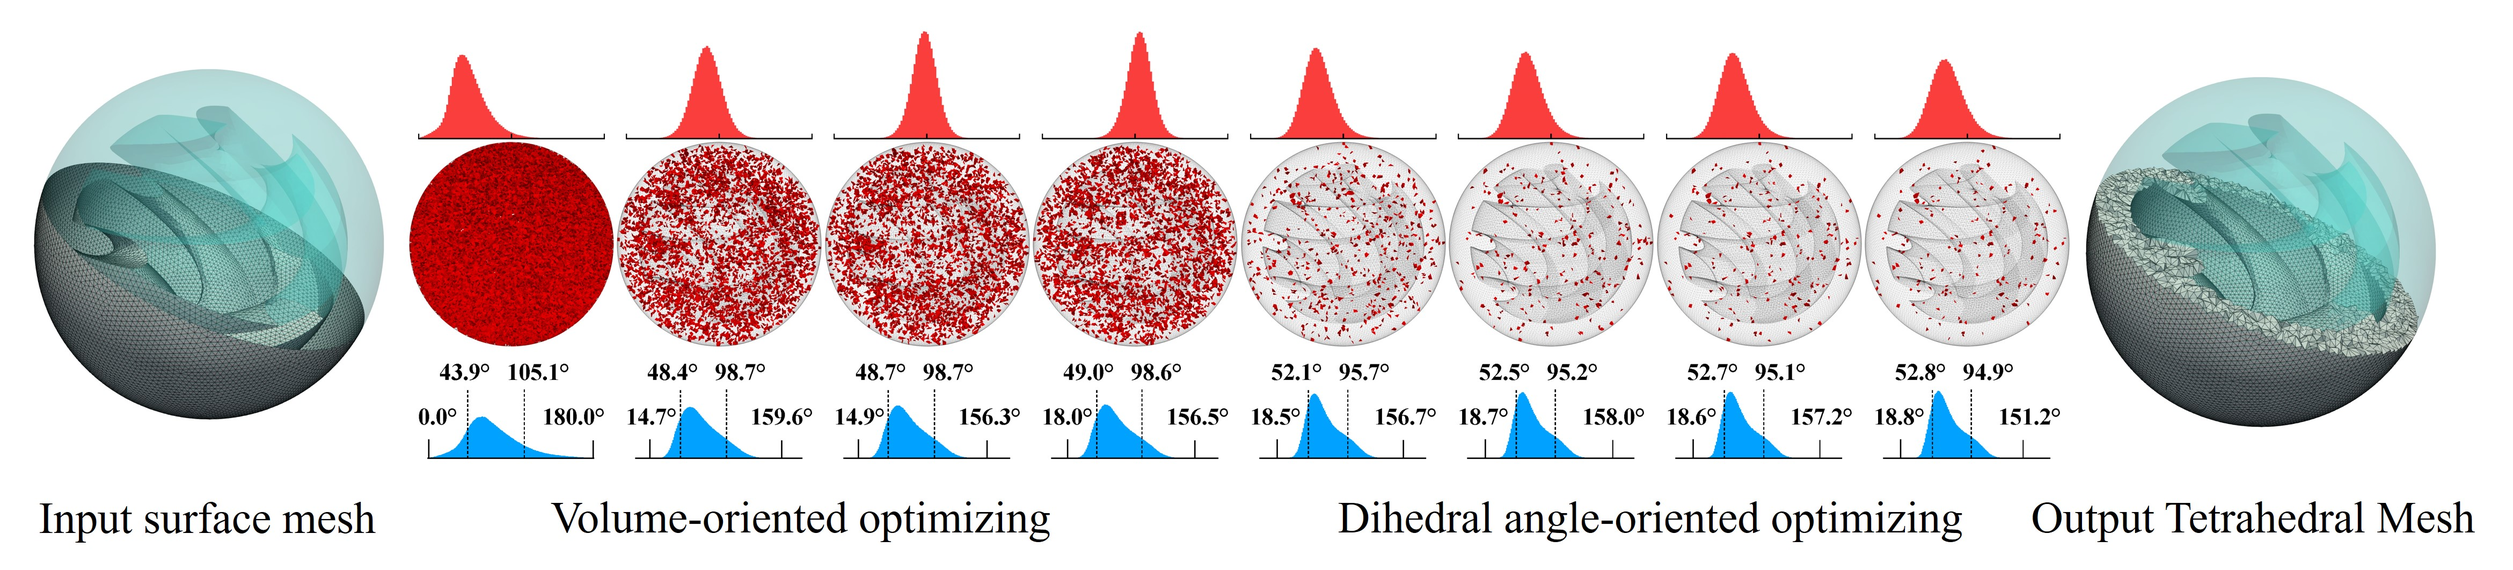
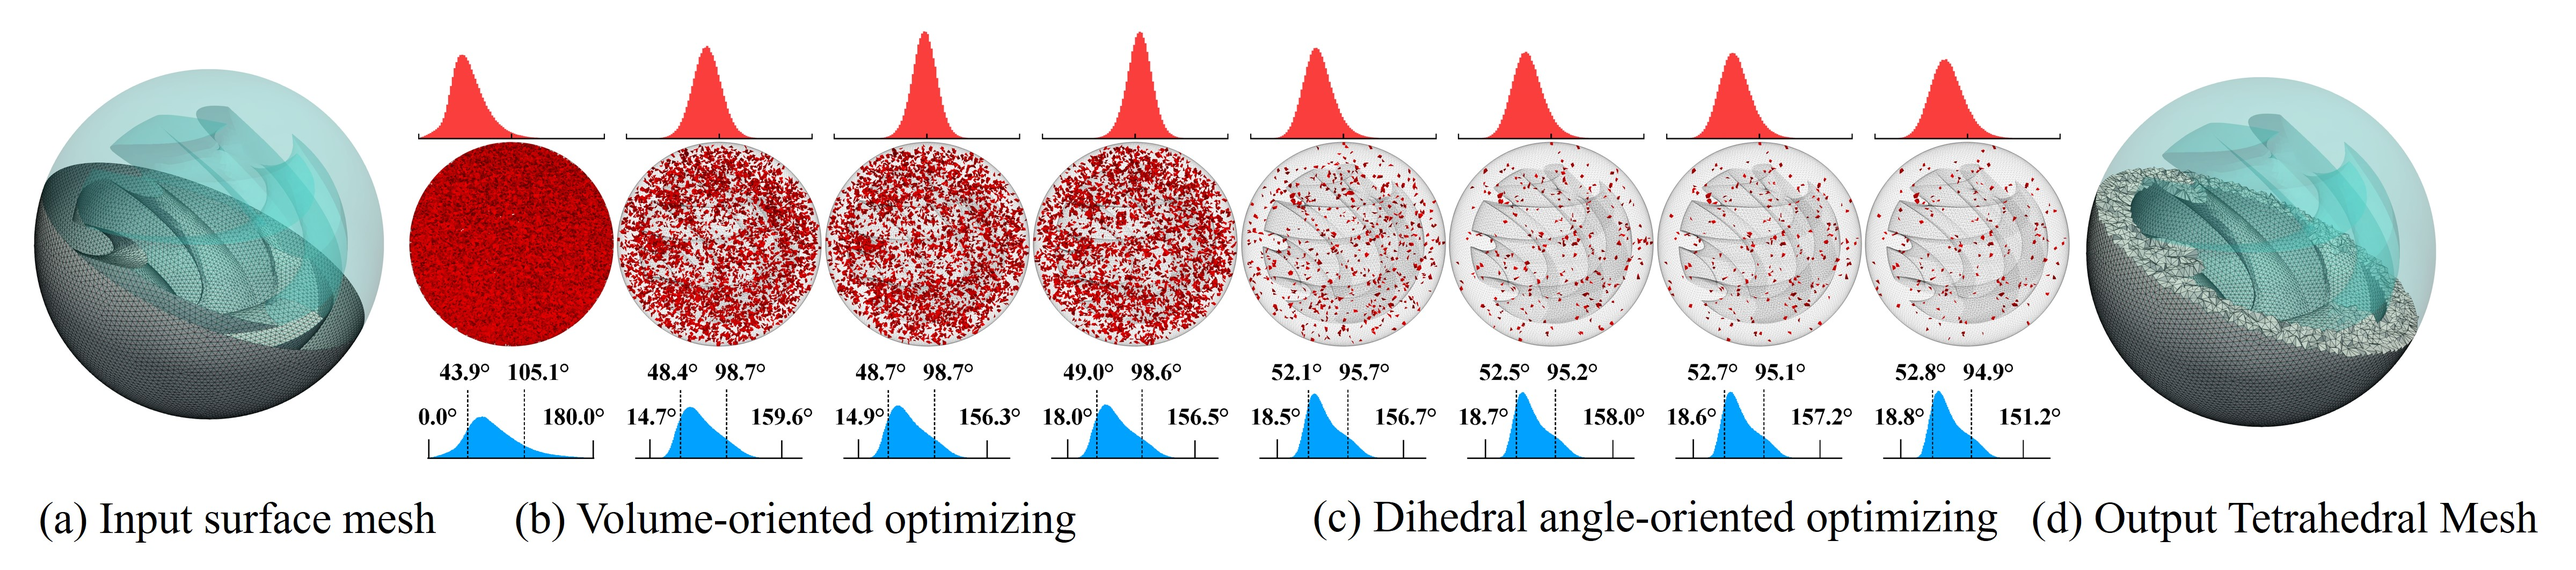
add caption

diff --git a/index.html b/index.html
@@ -3,6 +3,9 @@
 
 <head lang="en">
   <!-- <meta http-equiv="Content-Type" content="text/html; charset=UTF-8"> -->
+  <!-- 加载 MathJax -->
+  <script src="https://cdn.jsdelivr.net/npm/mathjax@3/es5/tex-mml-chtml.js"></script>
+
 
   <!-- <meta http-equiv="x-ua-compatible" content="ie=edge"> -->
   <link rel="stylesheet" href="./definitive-image-comparison-slider-master/src/dics.css">
@@ -125,15 +128,19 @@
           <img src="files/images/pipeline.jpg" />
           <p class="caption">
             Algorithmic pipeline. (a) Our method takes a set of watertight, high-quality manifold triangular meshes as
-            the input boundaries. (b) The initial tetrahedral mesh, constructed via Delaunay tetrahedralization,
-            contains numerous slivers. Slivers with dihedral angles less than $30^\circ$ are rendered in red. Minimizing
+            the input boundaries. (b) The initial tetrahedral mesh, constructed via Delaunay tetrahedralization.
+            Elements with dihedral angles less than \(30^\circ\) are rendered in red.
+            Minimizing
             the volume-oriented energy improves the uniformity of the volume of tetrahedra. (c) Subsequently, minimizing
-            the diheral angle-oriented energy further reduces the number of slivers. (d) The final tetrahedral mesh
-            exhibits significantly improved mesh quality. The red and blue histograms represent the volume distribution
+            the dihedral angle-oriented energy further reduces the number of bad elements. (d) The final high quality
+            tetrahedral
+            mesh. The red and blue histograms represent the volume distribution
             and dihedral angle distribution of tetrahedral elements, respectively.
-            In each angle histogram, we indicate the range of dihedral angles $[\theta_{\min}, \theta_{\max}]$ via short
-            solid lines and the average of the minimal and maximal angles $\theta_{\min}^{\mathrm{avg}}$ and
-            $\theta_{\max}^{\mathrm{avg}}$ via long dashed lines.</p>
+            In each angle histogram, we indicate the range of dihedral angles \([\theta_{\min}, \theta_{\max}]\) via
+            short
+            solid lines and the average of the minimal and maximal angles \(\theta_{\min}^{\mathrm{avg}}\) and
+            \(\theta_{\max}^{\mathrm{avg}}\) via long dashed lines.
+          </p>
         </div>
 
         <br>
